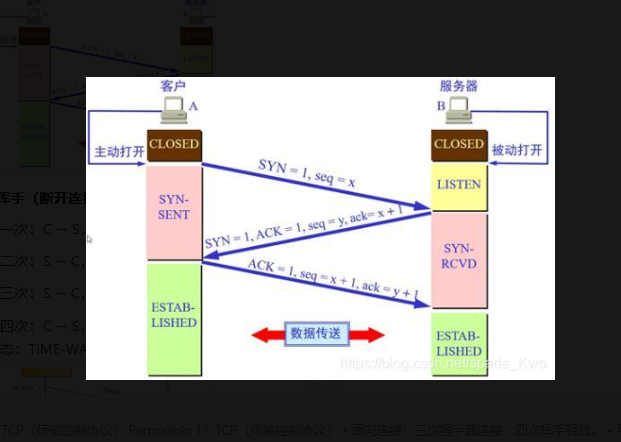
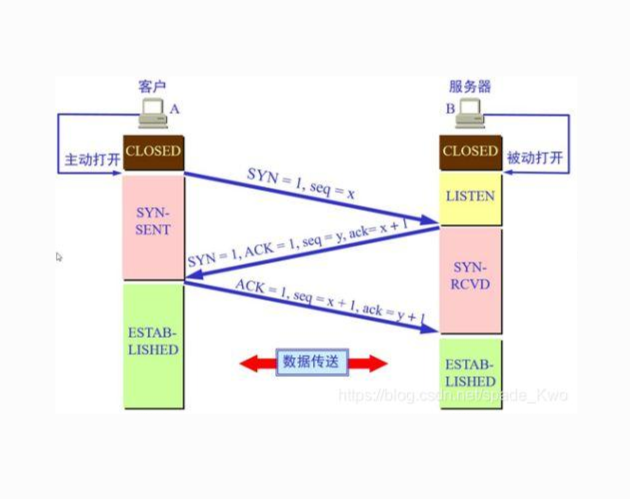
docs: 第3章3.5 TCP连接与传输背诵版及握手挥手配图
补齐三次握手/四次挥手流程、序号ACK与快重传，新增状态图读图与50字速记。

diff --git a/03_transport_layer/3.5_tcp_connection_and_transmission/study.md b/03_transport_layer/3.5_tcp_connection_and_transmission/study.md
@@ -1,18 +1,154 @@
 # 3.5 TCP 连接与传输
 
-> 章级精读：[../study.md#ch3-5](../study.md#ch3-5)
+> 章级精读：[../study.md#ch3-5](../study.md#ch3-5) · 可靠基础：[3.4](../3.4_reliable_data_transfer_principle/study.md) · 流量控制 rwnd：[章级 #ch3-5-flow](../study.md#ch3-5-flow)
 
 ## 本节核心目标
 
-彻底搞懂 TCP 三次握手、可靠传输。
+彻底搞懂 **TCP 三次握手（建连接）、四次挥手（断连接）、序号 / 确认号、可靠传输**。
 
-## 核心知识点
+---
 
-1. TCP 面向连接、可靠有序字节流
-2. 三次握手：建立连接全过程，SEQ/ACK 序号计算
-3. 四次挥手：优雅断开连接
-4. TCP 序号、确认号、按序交付、丢包重传
+## 一、TCP 核心特性（先记 4 句）
 
-## 个人总结
+1. **面向连接**：传输前必须先建立连接（三次握手）。
+2. **可靠交付**：不丢、不乱、不错（序号、ACK、重传保障）。
+3. **有序字节流**：数据视为连续字节流，**无消息边界**。
+4. **全双工**：双方可同时收发数据。
 
-三次握手建连接，四次挥手断连接，TCP 保障数据不出错、不乱序。
+→ 与 [3.4 SR](../3.4_reliable_data_transfer_principle/study.md) 思想一脉相承，TCP 在连接上实现可靠 + 字节流语义。
+
+---
+
+## 二、TCP 连接建立：三次握手（必考）
+
+![TCP 三次握手：客户 A 与服务器 B 状态迁移](../assets/tcp_three_way_handshake.png)
+
+<a id="ch3-5-diagram-handshake"></a>
+
+### 1）流程（客户端主动，服务器被动）
+
+| 次 | 方向 | 报文 | 含义 | 状态变化 |
+|----|------|------|------|----------|
+| **①** | C→S | `SYN=1, seq=x` | 请求建连；客户端 ISN = **x** | C：**CLOSED→SYN_SENT**；S：**LISTEN→SYN_RCVD** |
+| **②** | S→C | `SYN=1, ACK=1, seq=y, ack=x+1` | 同意建连；确认 x；服务器 ISN = **y** | — |
+| **③** | C→S | `ACK=1, seq=x+1, ack=y+1` | 确认 y；连接建立 | 双方 → **ESTABLISHED** |
+
+**读图要点**
+
+| 颜色 / 元素 | 含义 |
+|-------------|------|
+| **LISTEN**（黄） | 服务器被动打开，等待连接 |
+| **SYN_SENT / SYN_RCVD**（粉） | 握手进行中 |
+| **ESTABLISHED**（绿） | 连接就绪，可**数据传送** |
+| **主动打开 / 被动打开** | 客户端 vs 服务器角色 |
+
+### 2）关键公式（必背）
+
+| 规则 | 说明 |
+|------|------|
+| **SYN / FIN 各占 1 序号** | 即使无数据，也消耗序号 |
+| 控制段 | `ack = 对方 seq + 1` |
+| 数据段 | `ack = 对方 seq + 本次数据长度` |
+| 确认语义 | **ack = 期望收到的下一个字节序号**（累积确认） |
+
+### 3）为什么是三次？
+
+| 次数 | 问题 |
+|------|------|
+| 1 次 | 只证明客户端**能发**，不够 |
+| 2 次 | 服务器知收发正常，但**客户端不知服务器收发是否正常** |
+| **3 次** | 双方都确认：**自己能发、对方能收；对方能发、自己能收** |
+
+**易错**：第三次握手可**携带数据**（实现相关）；考试常考**序号 ack 计算**。
+
+---
+
+## 三、TCP 可靠传输：序号、确认、重传
+
+### 1）序号（Seq）
+
+- 对**每个字节**编 **32 位**序号（0～4G 循环）。
+- **防乱序、防重复、标识字节位置**（非「第几个包」）。
+
+### 2）确认号（Ack）
+
+- `ack` = **期望收到的下一个字节序号**。
+- **累积确认**：`ack=1000` → 字节 0～999 全部正确收到。
+
+### 3）丢包重传（两种）
+
+| 机制 | 触发 | 特点 |
+|------|------|------|
+| **超时重传** | 定时器到期仍无 ACK | 基础手段 |
+| **快速重传** | 收到 **3 个重复 ACK** | 不等超时，立即重传 |
+
+→ RTT 估计与超时公式：[章级 §3.5](../study.md#ch3-5)
+
+### 4）按序交付
+
+- 接收方**缓存乱序段**，缺包补齐后**按序上交**应用层（类似 SR）。
+
+---
+
+## 四、TCP 连接关闭：四次挥手（必考）
+
+TCP **全双工** → 两个方向**分别关闭**。
+
+![TCP 四次挥手：半关闭、TIME_WAIT 与 2MSL](../assets/tcp_four_way_handshake.png)
+
+<a id="ch3-5-diagram-close"></a>
+
+### 1）流程（客户端主动关闭）
+
+| 次 | 方向 | 报文 | 含义 | 状态变化 |
+|----|------|------|------|----------|
+| **①** | C→S | `FIN=1, seq=u` | 客户端不再发（关 C→S） | C：**ESTABLISHED→FIN_WAIT_1** |
+| **②** | S→C | `ACK=1, seq=v, ack=u+1` | 确认 FIN；服务器**还可发** | S：**ESTABLISHED→CLOSE_WAIT**；C：**FIN_WAIT_2** |
+| **③** | S→C | `FIN=1, …, ack=u+1` | 服务器发完，关 S→C | S：**CLOSE_WAIT→LAST_ACK** |
+| **④** | C→S | `ACK=1, seq=u+1, ack=w+1` | 确认服务器 FIN | C：**TIME_WAIT**；S：**CLOSED** |
+| **等待** | C | **2MSL** 后 | 最后 ACK 可能重传；旧报文过期 | C：**CLOSED** |
+
+**读图要点**
+
+| 阶段 | 含义 |
+|------|------|
+| **半关闭** | ② 之后仅 **S→C** 仍可传数据（图中单向「数据传送」） |
+| **CLOSE_WAIT** | 服务器收到 FIN 后应**尽快 close**，否则堆积 |
+| **TIME_WAIT** | 主动关闭方等 **2MSL** 再 CLOSED |
+
+### 2）为什么是四次？
+
+- ② 的 ACK：**确认**客户端 FIN；
+- ③ 的 FIN：服务器**发完数据后**再关自己的发送方向；
+- **确认与关闭发送方向分开** → 需要四次。
+
+### 3）TIME_WAIT（2MSL）
+
+1. 确保**最后一个 ACK** 能到达服务器（丢了服务器会重传 FIN，客户端可再 ACK）。
+2. 让本连接**迟到的旧报文**在网络中消失，避免干扰**同四元组新连接**。
+
+**易错**：`TIME_WAIT` 在**主动关闭方**（常为客户端，也可服务器主动关）。
+
+---
+
+<a id="ch3-5-exam"></a>
+
+## 五、考试 / 面试速记
+
+| 点 | 口诀 |
+|----|------|
+| 特性 | **连接、可靠、字节流、全双工** |
+| 握手 | **SYN seq=x → SYN+ACK y ack=x+1 → ACK ack=y+1** |
+| 挥手 | **FIN → ACK → FIN → ACK；半关闭** |
+| 可靠 | **字节序号、累积 ACK、超时 + 快重传** |
+| 公式 | **SYN/FIN 占 1 序号；ack=seq+1（或+数据长）** |
+
+### 50 字终极版
+
+**面向连接可靠字节流全双工。三次握手SYN序x ack加一建连。四次挥手FIN半关闭TIME_WAIT等2MSL。序号累积ACK超时与三重复ACK快重传按序交付。**
+
+---
+
+## 个人总结（直接背）
+
+**三次握手建连接，四次挥手断连接，TCP 保障数据不出错、不乱序。**

diff --git a/03_transport_layer/3.5_tcp_connection_and_transmission/README.md b/03_transport_layer/3.5_tcp_connection_and_transmission/README.md
@@ -1,24 +1,25 @@
-# 3.5 — tcp connection and transmission
+# 3.5 — TCP 连接与传输
 
 ## 知识点速记
 
-- **字节流**：序号/确认号基于字节；**MSS** 多指载荷上限量级。
-- **RTT 与超时**：`EstimatedRTT`、`DevRTT`、`TimeoutInterval = Est + 4·Dev`（教材常用系数）。
-- **连接管理**：三次握手、四次挥手；**TIME_WAIT = 2MSL**（时长依实现）。
-- **流量控制**：见同章 [rwnd 小节](../study.md#ch3-5-flow)（与 `3.6_tcp_flow_control` 目录对应）。
+- **四特性**：面向连接、可靠、字节流、全双工
+- **三次握手**：[状态图](./study.md#ch3-5-diagram-handshake) · SYN/ACK 序号计算
+- **四次挥手**：[半关闭+TIME_WAIT](./study.md#ch3-5-diagram-close)
+- **可靠**：累积 ACK、超时重传、**3 重复 ACK 快重传**
+- **背诵**：[50 字](./study.md#ch3-5-exam) · rwnd：[章级 flow](../study.md#ch3-5-flow)
 
 ## 与后端开发的联系
 
-- 连接泄漏、`CLOSE_WAIT`、`TIME_WAIT` 过多、Nagle 与延迟 ACK 交互等线上经典问题。
+- `CLOSE_WAIT` 泄漏、`TIME_WAIT` 过多、握手/挥手序号算错
 
 ## 延伸阅读
 
-- 章级精读：[study.md § 3.5](../study.md#ch3-5) · [流量控制 rwnd](../study.md#ch3-5-flow)
+- [study.md](./study.md) · [3.4 可靠原理](../3.4_reliable_data_transfer_principle/study.md)
 
 ## 本目录文件说明
 
 | 文件 | 用途 |
 |------|------|
-| `README.md` | 小节速记（你正在看的） |
-| `study.md` | 个人小节笔记 |
+| `README.md` | 小节速记 |
+| `study.md` | 可背诵完整版 |
 | `demo_code/` | 示例代码 |

diff --git a/03_transport_layer/README.md b/03_transport_layer/README.md
@@ -16,6 +16,8 @@
 | [stop_wait_channel_utilization.png](./assets/stop_wait_channel_utilization.png) | 3.4 停等信道利用率 U |
 | [gbn_cumulative_ack.png](./assets/gbn_cumulative_ack.png) | 3.4 GBN 累积确认 |
 | [gbn_error_retransmit.png](./assets/gbn_error_retransmit.png) | 3.4 GBN 丢包回退重传 |
+| [tcp_three_way_handshake.png](./assets/tcp_three_way_handshake.png) | 3.5 TCP 三次握手状态图 |
+| [tcp_four_way_handshake.png](./assets/tcp_four_way_handshake.png) | 3.5 TCP 四次挥手与 TIME_WAIT |
 
 ## 小节列表
 
@@ -23,6 +25,6 @@
 - [3.2 复用与分用](./3.2_multiplexing_demultiplexing/study.md) — 多进一/一进多、UDP目的端口/TCP四元组、30 字背诵  
 - [3.3 UDP](./3.3_udp_protocol/study.md) — 8B首部读图、无连接不可靠、场景、UDP/TCP对比、30 字背诵  
 - [3.4 可靠传输原理](./3.4_reliable_data_transfer_principle/study.md) — rdt演化、SW/GBN/SR对比、利用率公式、配图读图、50字背诵  
-- [3.5 TCP 连接与传输](./3.5_tcp_connection_and_transmission/study.md) — 握手挥手、序号重传  
+- [3.5 TCP 连接与传输](./3.5_tcp_connection_and_transmission/study.md) — 三次握手/四次挥手读图、序号ACK、快重传、50字背诵  
 - [3.6 TCP 流量控制](./3.6_tcp_flow_control/study.md) — rwnd、滑动窗口（[§3.5-flow](./study.md#ch3-5-flow)）  
 - [3.7 TCP 拥塞控制](./3.7_tcp_congestion_control/study.md) — cwnd、慢启动等（[§3.6–3.8](./study.md#ch3-6)）  

diff --git a/03_transport_layer/study.md b/03_transport_layer/study.md
@@ -843,6 +843,8 @@ UDP 为 **QUIC** 提供「画布」：在用户态实现可靠性、拥塞控制
 
 ## 3.5 面向连接的运输：TCP
 
+> **背诵提纲** → [3.5 小节](./3.5_tcp_connection_and_transmission/study.md)（三次握手/四次挥手 · 序号 ACK · [50 字](./3.5_tcp_connection_and_transmission/study.md#ch3-5-exam) · [握手/挥手读图](./3.5_tcp_connection_and_transmission/study.md#ch3-5-diagram-handshake)）
+
 ### 报文结构与字节流语义
 
 - **序号与确认号**：对**发送的字节流**编号；确认号表示**期望收到的下一字节序号**（累积确认语义）。  
